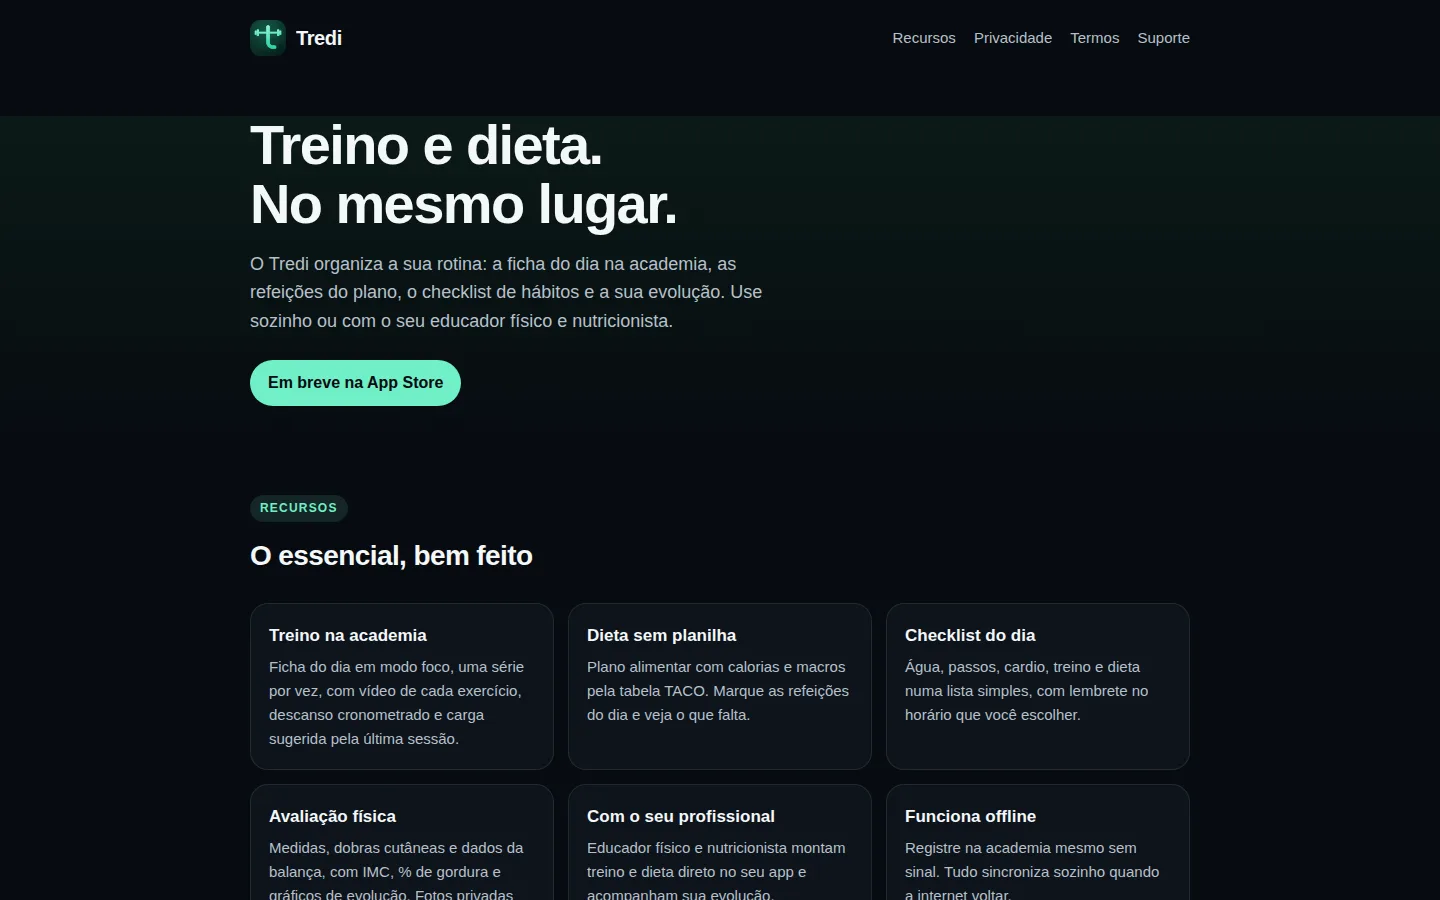
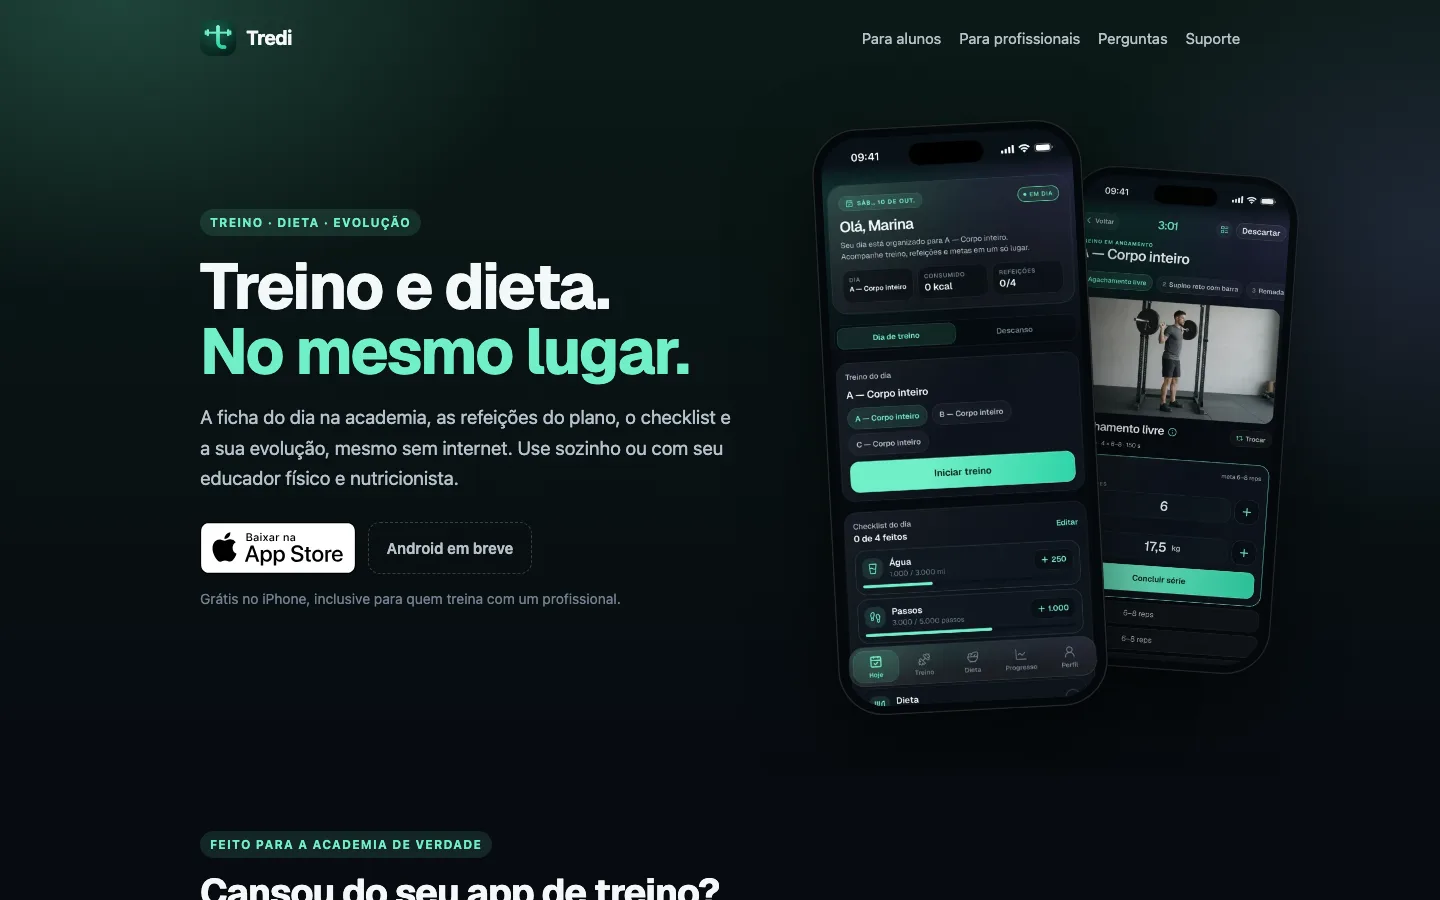
Show Tredi's new landing and web editor, with screenshots that follow the light and dark theme

diff --git a/src/styles/global.css b/src/styles/global.css
@@ -269,3 +269,25 @@ button {
   padding: 0.1em 0.35em;
   border-radius: 4px;
 }
+
+.only-light {
+  display: none !important;
+}
+
+:root[data-theme='light'] .only-light {
+  display: block !important;
+}
+
+:root[data-theme='light'] .only-dark {
+  display: none !important;
+}
+
+@media (prefers-color-scheme: light) {
+  :root:not([data-theme='dark']) .only-light {
+    display: block !important;
+  }
+
+  :root:not([data-theme='dark']) .only-dark {
+    display: none !important;
+  }
+}

diff --git a/src/content.config.ts b/src/content.config.ts
@@ -23,7 +23,9 @@ const projects = defineCollection({
         store: z.string().url().optional(),
       }),
       cover: image(),
+      coverLight: image().optional(),
       mobile: image().optional(),
+      mobileLight: image().optional(),
       gallery: z.array(z.object({ src: image(), caption: z.string() })).default([]),
       featured: z.number().int().optional(),
       order: z.number().int(),

diff --git a/src/content/projects/tredi/index.md b/src/content/projects/tredi/index.md
@@ -4,18 +4,27 @@ tagline: App de treino e dieta para alunos e profissionais, com sincronização 
 category: product
 status: live
 period: 2026 – hoje
-role: Produto, app, API e operação
+role: Produto, app, web, API e operação
 stack:
   - React Native
   - Expo
+  - React
   - NestJS
   - TypeScript
   - PostgreSQL
   - Kubernetes
 links:
   site: https://tredi.oconde.dev
+  store: https://apps.apple.com/app/tredi-treino-e-dieta/id6820290912
 cover: ./desktop.webp
+coverLight: ./desktop-light.webp
 mobile: ./mobile.webp
+mobileLight: ./mobile-light.webp
+gallery:
+  - src: ./editor-light.webp
+    caption: Editor de programa de treino na web, tema claro. Cada mudança é salva na hora, mesmo com a rede caindo.
+  - src: ./editor-dark.webp
+    caption: O mesmo editor no tema escuro (dados de demonstração).
 featured: 2
 order: 2
 ---
@@ -28,9 +37,13 @@ Personal trainers e nutricionistas mandam planos por PDF e WhatsApp, o aluno per
 
 Um app para o aluno (treinos do dia, dieta, avaliações físicas, progresso, vídeos dos exercícios) e para o profissional (montar planos, acompanhar alunos, avaliar), com vínculo entre as duas pontas e notificações push. A API em NestJS cuida do sync offline, dos planos, das avaliações e dos vínculos. O app está publicado na App Store.
 
+Na web, uma landing estática, a área da conta (perfil, sessões, solicitações, exportar os próprios dados) e, para o profissional, alunos, convites e um editor de programas de treino. Para a equipe, um backoffice com login em duas etapas para responder as solicitações dos usuários.
+
 ## Decisões que valem contar
 
 - Sync offline-first por fila de mudanças: o aluno treina sem internet e o servidor resolve o que chegou depois.
+- O editor web não guarda rascunho no navegador: cada alteração vai para a API por uma fila que junta o que foi digitado, reenvia quando a rede volta e pausa se a sessão vence. Perder o treino montado foi a reclamação mais citada contra os concorrentes.
+- A landing usa as reclamações mais comuns em cerca de 800 avaliações de apps concorrentes como chamadas, sem citar marcas e só com o que o app já faz.
 - Os vídeos dos exercícios ficam em disco no servidor, com cópia semanal no Google Cloud Storage, em vez de um bucket pago por requisição.
 - Banco no Postgres de produção com restauração em ponto no tempo desde outubro de 2026.
 - Sem staging, por decisão de custo: a imagem é publicada por commit e voltar de versão é um clique no Redeploy.

diff --git a/README.md b/README.md
@@ -15,7 +15,7 @@ npm run smoke -- http://127.0.0.1:8089   # smoke contra a imagem Docker rodando
 ## Acrescentar um projeto
 
 1. Criar `src/content/projects/<slug>/index.md` com o frontmatter do schema em `src/content.config.ts`.
-2. Acrescentar a URL em `scripts/shots.config.mjs` e rodar `npm run shots -- <slug>`; ou colocar `desktop.svg` na pasta quando não há página pública.
+2. Acrescentar a URL em `scripts/shots.config.mjs` e rodar `npm run shots -- <slug>`; ou colocar `desktop.svg` na pasta quando não há página pública. Com `themes: true` o script também tira `desktop-light.webp` e `mobile-light.webp`; apontados em `coverLight` e `mobileLight`, os prints acompanham o tema do site.
 3. `npm run build` valida o schema.
 
 ## Imagem e deploy
